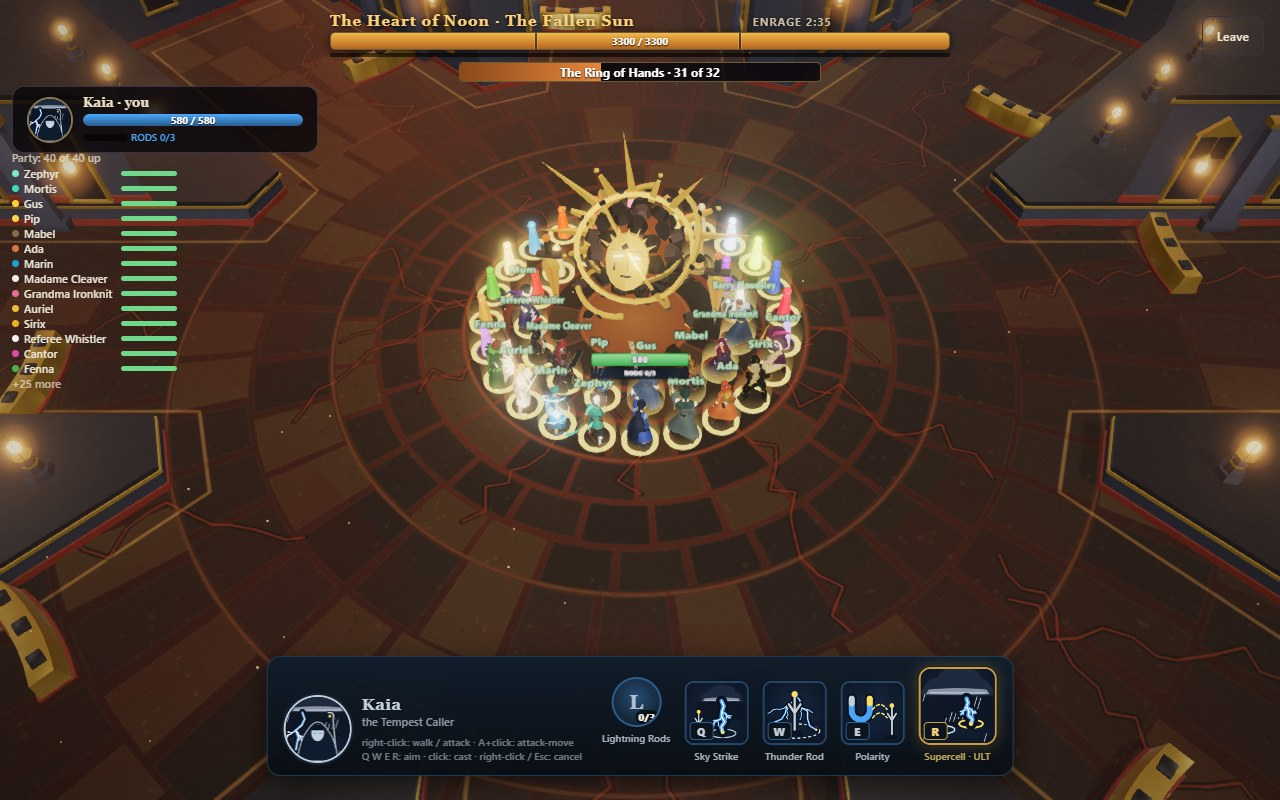
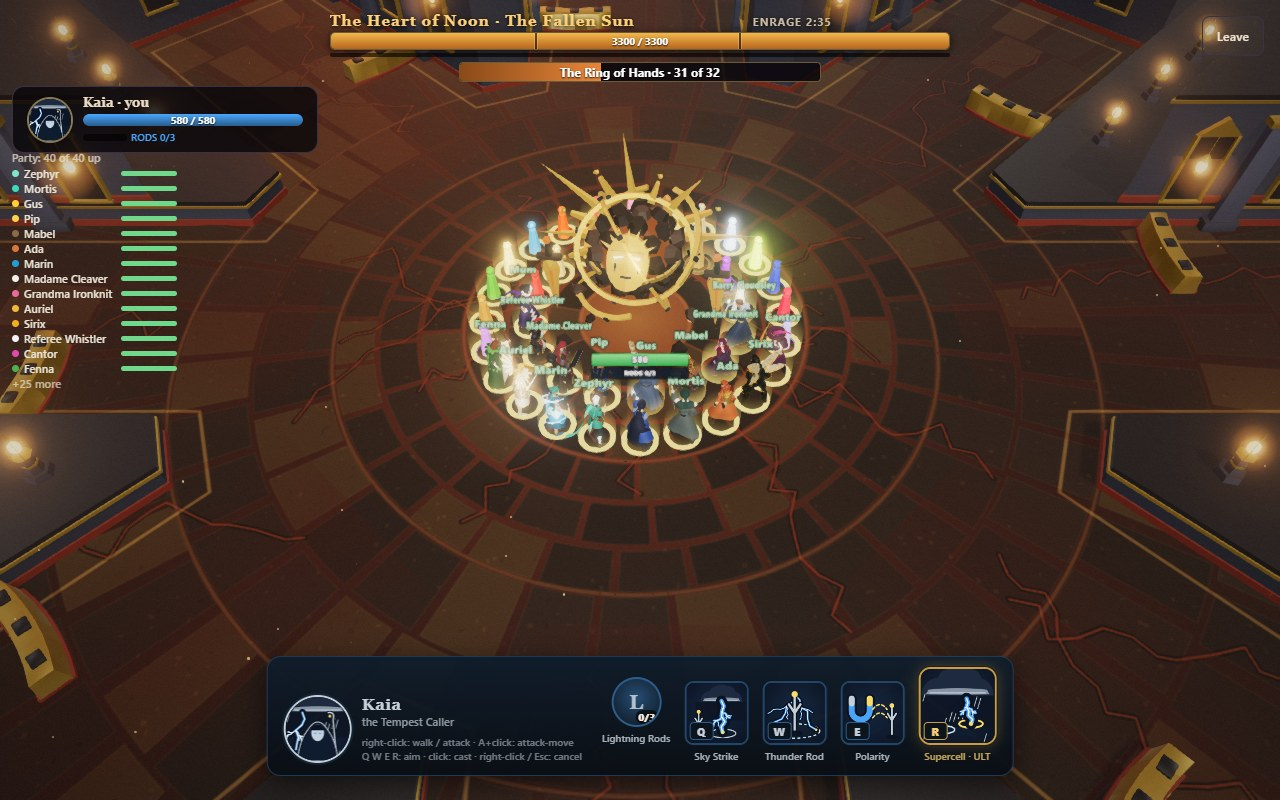
Raid: the Heart's crust falls by its own clock, through Take the Blade; one gold spot to a hero while the hub answers
- The crust was the last phase's opener, and an opener waits for a move that
  holds the floor: with Take the Blade in the air (30 s of every 44) it often
  never came, and a brain that took the fight over would never have cast it.
  It now comes as the floor's turning does, as soon as the phase lets it, and
  the blade lets it and the Heartbeat through.
- The Ring of Hands: two neighbours' reach overlaps, and through the hub the
  answer takes a moment, so one hero could ask for two spots. A screen that
  has asked for one asks for no other until it hears.

_raidHeart 246 rows.

diff --git a/src/raid/heart.ts b/src/raid/heart.ts
@@ -1168,10 +1168,12 @@ const floorTurns: BossMove = {
  * good (`heartbeat`, which carries the brain's pick). Its lock spots and its piece of cover go with it. What is gone burns whoever
  * steps on it, each second. The inner ring, a spoke of crust to each spur's nose (where the plates fall) and the north ray with the
  * way out never fall, and six sectors at most: a long fight ends on a floor too small. This cast only says that it has begun, stops
- * the rings (when, on the floor's own clock, is in its `x`) and keeps the fire over what has fallen; it opens the phase.
+ * the rings (when, on the floor's own clock, is in its `x`) and keeps the fire over what has fallen. It comes once, as soon as the
+ * phase lets it (`due`), as the floor's turning does: not as the phase's opener, which waits for a move that holds the floor
+ * (Take the Blade) and which a brain that takes the fight over never casts.
  */
 const crustFalls: BossMove = {
-  id: 'crust', name: 'The Crust Falls', charge: 4, lock: 0, cooldown: 99999, alongside: true, big: true, pose: 'raise',
+  id: 'crust', name: 'The Crust Falls', charge: 4, lock: 0, cooldown: 99999, due: 0, alongside: true, big: true, pose: 'raise',
   aim(c) {
     const a = atHeart(c);
     return { x: heartFight.turning && heartFight.stopAt === Infinity ? heartFight.clock + TURN.lead : 0, z: 0, dir: a.dir };
@@ -1225,8 +1227,11 @@ export const BLADE = {
   land: 1.6, out: 5.2, radius: 1.3, lies: 20, lasts: 30, burn: 12, might: 2, gens: 4, again: 3, stands: 1.5, over: 1.6,
   lances: [5, 8.5, 12, 15.5, 19, 22.5, 26], warn: 1.3, width: 2.4, hit: 0.35, block: 0.15, knock: 3, body: 1, past: 1.2,
 };
-/** While its blades are out of its hands it does what needs none. */
-const BLADE_ONLY = ['flare', 'corona', 'rings'];
+/**
+ * While its blades are out of its hands it does what needs none: the flare, the crown, the rings, and in the last phase the
+ * Heartbeat, whose raised plates stop a lance. The room's own changes come through it too.
+ */
+const BLADE_ONLY = ['flare', 'corona', 'rings', 'heartbeat', 'turn', 'crust'];
 const TAKE = 0, DROP = 100, SPENT = 200;
 
 /** One of its blades, away from its hand. */
@@ -1447,7 +1452,7 @@ function sunLance(c: BossCast, p: PlayContext): PlayedMove {
 /**
  * Take the Blade (user, 2026-11-12, for a party of 20 or more): the Heart throws its two sun blades down into the floor beside it.
  * A hero who walks onto one carries it over its head: its hits on the Heart count twice, it walks slower, and the Heart's aim goes
- * to the carriers (`heartChoice`). While the blades are out of its hands it does only what needs none, and it throws a lance of
+ * to the carriers (`heartChoice`). While the blades are out of its hands it does only what needs none (`BLADE_ONLY`), and it throws a lance of
  * light at a carrier every few seconds: the lance ends on the first hero standing in its line (who pays little) or on cover, a
  * raised plate too; a carrier it reaches pays much and the blade is knocked from its hands. A blade whose carrier is hit or falls
  * lies where that hero stood, for another. Hold Still goes on through all of it: on a beat a carrier can't step aside.
@@ -1534,7 +1539,10 @@ const ringOfHands: BossMove = {
     });
     let mine = -1, got = 0, won = -1, named = false, time = 0;
     const fail: Threat = { shape: { kind: 'circle', x: C.x, z: C.z, radius: roomR() + 1 }, at, show: Math.max(0, at - 3), share: HANDS.fail, look: 2 };
-    const objectives: Objective[] = spots.map((s, i) => ({ part: i, x: s.x, z: s.z, radius: HANDS.reach, hold: HANDS.hold, until: close, can: () => mine < 0 && s.by < 0 && won < 0 }));
+    // One spot to a hero. Two neighbours' reach overlaps, and the hub's answer takes a moment: while this screen has asked for a spot
+    // and not heard, it asks for no other.
+    const asked = () => objectives.some((o) => o.reported && !o.done);
+    const objectives: Objective[] = spots.map((s, i) => ({ part: i, x: s.x, z: s.z, radius: HANDS.reach, hold: HANDS.hold, until: close, can: () => mine < 0 && s.by < 0 && won < 0 && !asked() }));
     const label = () => p.label(`The Ring of Hands · ${got} of ${need}`);
     p.hint('The Ring of Hands: everyone to a gold spot round the Heart, one each. Hold it a moment');
     p.banner('The Ring of Hands', 2.6);
@@ -1637,9 +1645,9 @@ const PHASES: BossPhase[] = [
 ];
 /**
  * A party's, in the Sunburst. The Rings Turn still opens with the rings, and the floor begins to turn right after (`turn` comes as
- * soon as it may). Noon Falls opens with the crust falling, which stops the rings; the Heartbeat waits until they rest (so its
- * plates fall before the spurs, on a floor that stands) and then comes by its own clock: its first beat already takes a sector. Its
- * great mechanics (Take the Blade, The Ring of Hands) are in its lists only when their turn has come
+ * soon as it may). Noon Falls begins with the crust falling (`crust`, the same way: first in its list, by its clock), which
+ * stops the rings; the Heartbeat waits until they rest (so its plates fall before the spurs, on a floor that stands) and then comes
+ * by its own clock: its first beat already takes a sector. Its great mechanics (Take the Blade, The Ring of Hands) are in its lists only when their turn has come
  * (`nextGreat`); the brain leaves out what the band is too small for (`BossMove.minBand`).
  */
 const great = (list: string[]) => {
@@ -1649,7 +1657,7 @@ const great = (list: string[]) => {
 const PARTY_PHASES: BossPhase[] = [
   PHASES[0],
   { ...PHASES[1], get moves() { return great(['sweep', 'fall', 'flare', 'rings', 'turn']); } },
-  { ...PHASES[2], opener: 'crust', get moves() { return great(floorMoves() ? ['sweep', 'fall', 'flare', 'rings', 'corona'] : ['sweep', 'fall', 'flare', 'rings', 'corona', 'heartbeat']); } },
+  { ...PHASES[2], opener: undefined, get moves() { return great(floorMoves() ? ['crust', 'sweep', 'fall', 'flare', 'rings', 'corona'] : ['crust', 'sweep', 'fall', 'flare', 'rings', 'corona', 'heartbeat']); } },
 ];
 
 export const HEART_OF_NOON: BossDef = {

diff --git a/pipeline/tools/raid-check.js b/pipeline/tools/raid-check.js
@@ -2118,7 +2118,7 @@
       step(12);
       yes('band: then The Ring of Hands has its turn', d.boss.brain.listOf(true).includes('hands') && !d.boss.brain.listOf(true).includes('blade'));
       yes('party phases: The Rings Turn opens with the rings, and the floor turns as soon as it may', def.phases[1].opener === 'rings' && def.phases[1].moves.includes('turn') && def.moves.turn.due === 0);
-      yes('party phases: Noon Falls opens with the crust falling, the Heartbeat next', def.phases[2].opener === 'crust' && def.phases[2].moves.includes('heartbeat'));
+      yes('party phases: Noon Falls begins with the crust falling, by its own clock, the Heartbeat next', !def.phases[2].opener && def.phases[2].moves[0] === 'crust' && def.moves.crust.due === 0 && def.phases[2].moves.includes('heartbeat'));
       yes('party phases: every move\'s name passes the hub (letters only)', Object.keys(def.moves).every((id) => /^[a-z]{1,16}$/.test(id)));
 
       // The floor turns: three rings, the inner one stands, the middle and the outer one turn against each other and carry.
@@ -2349,7 +2349,8 @@
       yes('blade: with no carrier standing the lance does not come', lanceAim([{ side: 0, x: 0, z: 20 }]).flag === true);
       step(BLADE.lasts - since(bc.id) + 2);
       yes('blade: at the end the blades are back in its hands', HEART_LIVE.blades.every((k) => k.out === 0) && !live(bc.id));
-      yes('blade: while they are out it does only what needs no blade', ['sweep', 'fall', 'heartbeat'].every((m) => !def.moves.blade.holds.only.includes(m)));
+      yes('blade: while they are out it does only what needs no blade', ['sweep', 'fall'].every((m) => !def.moves.blade.holds.only.includes(m)));
+      yes('blade: the crust still falls and the heart still beats meanwhile', ['crust', 'turn', 'heartbeat'].every((m) => def.moves.blade.holds.only.includes(m)));
       // The lance stops at cover, and costs who stands in its way less.
       party(20);
       q0 = burstAt(2, 27, 3.4);
@@ -2399,6 +2400,20 @@
       hc = cast('hands', { x: 40, z: 0 });
       step(0.05);
       hp = live(hc.id).played;
+      {
+        // Through the hub the answer takes a moment. A hero midway between two neighbours, in reach of both, asks for one only.
+        const asks = [], objective0 = d.boss.link.objective;
+        d.boss.link.objective = (id, part) => { asks.push(part); };
+        const pair = hp.objectives.slice(0, 2);
+        yes('hands: the reach of two neighbours overlaps', Math.hypot(pair[0].x - pair[1].x, pair[0].z - pair[1].z) < 2 * HANDS.reach);
+        place((pair[0].x + pair[1].x) / 2, (pair[0].z + pair[1].z) / 2);
+        step(HANDS.hold + 0.4);
+        d.boss.link.objective = objective0;
+        check('hands: a hero in reach of two spots asks the hub for one, while its answer is on the way', asks.length, 1, 0);
+        d.boss.script.done(hc.id, asks[0], 0);
+        step(0.3);
+        yes('hands: and none once it has one', asks.length === 1 && hp.objectives.every((o) => !o.can()));
+      }
       yes('hands: forty spots for forty, two rings deep, none overlapping', hp.objectives.length === 40 && nearest(hp.objectives) >= 2 * HANDS.radius && hp.objectives.every((o) => radOf(o.x, o.z) + HANDS.radius < BURST_RINGS.inner));
       yes('hands: it does nothing else meanwhile', def.moves.hands.holds.only.length === 0);
 

diff --git a/docs/architecture/raid.md b/docs/architecture/raid.md
@@ -690,7 +690,7 @@ Heart, has none of it.
 | When | What | How it comes |
 |---|---|---|
 | The Rings Turn begins (66 %) | **The floor turns.** The well is three rings | `turn`, once, as soon as the phase lets it (`due: 0`), right after the rings' own cast |
-| Noon Falls begins (33 %) | **The crust falls.** The rings stop; from then on each Heartbeat takes a sector of the floor | `crust`, the phase's opener; the Heartbeat follows by its own clock once the rings rest |
+| Noon Falls begins (33 %) | **The crust falls.** The rings stop; from then on each Heartbeat takes a sector of the floor | `crust`, once, as soon as the phase lets it (`due: 0`, first in its list); the Heartbeat follows by its own clock once the rings rest |
 | A fight tuned for 10 or more | **Shade the Heart together** | The Heartbeat itself, for such a party |
 | 20 or more | **Take the Blade** | `blade`, in the second and the last phase, when its turn comes |
 | 40 | **The Ring of Hands** | `hands`, the same, taking turns with the blade |
@@ -721,7 +721,10 @@ for 40 the blade, then the ring. The first waits 9 s after the floor begins to t
   the cast took to reach them by the computer's. Each screen carries its own hero by what its ring turned that frame; nobody is
   carried over a gap of more than half a second (a tab that was hidden).
 - **It comes once.** A brain that takes the fight over starts with all its moves ready and casts `turn` again: the cast does nothing
-  when the floor already turns. The same for `crust`.
+  when the floor already turns. The same for `crust`. Neither is its phase's opener: an opener waits for a move that holds the
+  floor (Take the Blade holds it 30 s of every 44, and its doubled damage is just when a phase turns), and a brain that takes
+  over never casts one. Both are among the moves the blade lets through (`BLADE_ONLY`). With `crust` as the opener, a lone hero at
+  band 20 saw the crust begin in 12 of 19 fights that reached the last phase; now in 16 of 16.
 - **Stopping.** When the crust falls the rings stop. The brain names when, on the floor's own clock, 1.5 s ahead (the cast's `x`),
   so every screen begins to brake at the same angle whenever it hears. Each ring rests on the next eighth of a turn, so its drawing
   lines up with the rays again, in 3 to 8 s.
@@ -765,9 +768,9 @@ says "Heartbeat · Shade the Heart together". A party of three to five has its o
 | The call | The Heart throws its two blades down: they stand in the floor 5.2 m from it, across from each other, after 1.6 s. The cast bar stays up for all of it, 30 s: "Take the Blade · 2 carried" |
 | Taking one | Walk onto it. It is held aloft over the carrier, a sun at its point |
 | A carrier | Its hits on the Heart count twice; it walks at 85 %; the Heart's aim goes to the carriers (`heartChoice`, `BossDef.choose`) |
-| Meanwhile | The Heart does only what needs no blade: the flare, the crown, the rings. No Heartbeat |
+| Meanwhile | The Heart does only what needs no blade: the flare, the crown, the rings, and in the last phase the Heartbeat. No Blade Sweep, no Blade Fall |
 | The lance | Every 3.5 s from 5 s on (seven in all) it throws a lance of light at a carrier: 1.3 s of warning, 2.4 m wide. A carrier it reaches pays 35 %, is thrown back 3 m, and the blade is knocked from its hands |
-| Shielding | The lance ends on the first hero standing in its line (within 1 m of it, the brain's look), who pays 15 %; or on cover, a raised plate too |
+| Shielding | The lance ends on the first hero standing in its line (within 1 m of it, the brain's look), who pays 15 %; or on cover: a piece of the fallen armillary, or a plate raised for a Heartbeat that came meanwhile |
 | A blade dropped | Lies where the lance was aimed, or where its carrier fell, for another. Who dropped it can't take it again for 3 s |
 | How long | A blade can be carried 12 s in all, by one hero or several; nobody took it for 20 s, and it goes back. Four changes of hands at most |
 
@@ -786,7 +789,7 @@ says "Heartbeat · Shade the Heart together". A party of three to five has its o
 | | |
 |---|---|
 | The spots | One gold spot for every hero standing (the brain's count), 0.7 m wide, on the inner ring: up to 22 in a ring 6 m from the Heart, a bigger raid two rings deep (6 m and 4.2 m) |
-| Taking one | Hold it 1 s, from within 0.95 m of its middle (a little past its edge, where a tap or an AI's walk ends). One to a hero: the hub says who has which |
+| Taking one | Hold it 1 s, from within 0.95 m of its middle (a little past its edge, where a tap or an AI's walk ends). One to a hero: the hub says who has which, and a screen that has asked for a spot asks for no other until it hears (two neighbours' reach overlaps) |
 | The count | On the cast bar: "The Ring of Hands · 31 of 32" (held, of those needed: four in five) |
 | How long | 16 s (never under 14); the spots close 1.2 s before the end, so every screen has the same count |
 | Full | The moment enough are held: the Heart is stunned, it kneels (`RAID_REWARDS.heart.hands`), nothing burns |
@@ -805,7 +808,7 @@ move's name is letters (`MOVE_RE` in `server/hub.mjs`), so online only the brain
 player was never burnt for walking in the Heart's second and last phase. They are `stillb` and `stillc` now, and six screens all
 saw them.
 
-**Not there.** A carrier is not slowed much: the one slow the raid's files have is a shard's (85 %, and nothing with Sure Feet). A
+**Not there.** A hero that falls on a sector which then drops lies over the sun: whoever gets it up stands in the fire to do it. A carrier is not slowed much: the one slow the raid's files have is a shard's (85 %, and nothing with Sure Feet). A
 dropped blade's place is exact when a lance knocked it loose, and as near as a fallen hero's place is on each screen otherwise. A
 hero that falls on a ring is not carried while it lies there. `PROTOCOL` must be raised before a deploy: the room's rules changed.
 
@@ -1034,7 +1037,7 @@ it, casting does), and it gets up with half its HP. Twice a fight per hero. Both
 - `pipeline/tools/heart-room-shots.py`: the Sunburst's pictures the same way, with 39 partners placed about the room by hand
   (`docs/raid/heartroom-*.jpg`). `pipeline/tools/heart-phase-shots.py`: the turning floor, the falling crust, Take the Blade and The
   Ring of Hands, on the same page set-up (`docs/raid/heart-*.jpg`).
-- `_raidHeart()` also has the party's new rows (114 of its 242): which band sees which mechanic and their turns; the rings' angles
+- `_raidHeart()` also has the party's new rows (118 of its 246): which band sees which mechanic and their turns; the rings' angles
   by the rule, the carry on each ring and off them, Hold Still on a turning ring, the beams against the floor, the cast doing
   nothing a second time; the rings stopping on an eighth of a turn when the brain says; a sector named by the brain, glowing,
   gone, what it costs, what stays, the lock rows; the plates by the heroes standing and what a plate left lying costs; the blades

diff --git a/pipeline/designs/raid-party.md b/pipeline/designs/raid-party.md
@@ -417,9 +417,14 @@ blades). Pictures: `docs/raid/heart-*.jpg` (thirteen; `python pipeline/tools/hea
 - **Shade the Heart together: a plate left lying costs everyone 8 %,** sheltered or not, 32 % at most. That is the "failure costs
   the whole party" for a mechanic whose other cost falls only on whoever stood in the open. The plates are one for every five
   heroes standing, so a raid that has lost ten heroes has two plates fewer to raise.
-- **Take the Blade: the blades are out of its hands, so it does nothing that needs them.** No Blade Sweep, no Blade Fall and no
-  Heartbeat for 30 s. In their place it throws a lance of light at a carrier every 3.5 s, and that is what the party shields:
-  the first hero in the lance's line takes it, for 15 % instead of the carrier's 35 %.
+- **Take the Blade: the blades are out of its hands, so it does nothing that needs them.** No Blade Sweep and no Blade Fall for
+  30 s. In their place it throws a lance of light at a carrier every 3.5 s, and that is what the party shields: the first hero in
+  the lance's line takes it, for 15 % instead of the carrier's 35 %. In the last phase the Heartbeat goes on through it: the two
+  overlap, as the rules for these mechanics allow there, and a plate raised for the beat stops a lance.
+- **The room's changes are not their phase's opener.** The first build opened Noon Falls with the crust. An opener waits for a
+  move that holds the floor, and the blade holds it 30 s of every 44, just when its doubled damage turns the phase: at band 20
+  the crust began in 12 of 19 fights that reached the last phase, and a brain that took the fight over would never have cast it.
+  Now it comes by its own clock, as the floor's turning does, and through the blade: 16 of 16.
 - **A lance that reaches a carrier knocks the blade loose.** Without that, standing in the lance would only save a friend some HP.
   The blade lies where the lance was aimed (a spot every screen has from the cast), so nobody sees it somewhere else.
 - **A blade burns 12 s in all,** shared by whoever carries it, and changes hands four times at most.
@@ -442,13 +447,14 @@ left lying 8 %; a blade doubles hits for 12 s, a lance every 3.5 s for 35 % or 1
   |---|---|---|---|---|---|---|---|
 | 5 | 4 of 20 | 112 | 15 of 20 | 20 of 20 | 21 | 0.3 | 0 |
   | 10 | 6 of 20 | 121 | 15 of 20 | 20 of 20 | 18.2 | 0.5 | 0.06 |
-  | 20 | 10 of 20 | 115 | 19 of 20 | 20 of 20 | 17.4 | 0.1 | 0 |
-  | 40 | 6 of 20 | 112 | 18 of 20 | 20 of 20 | 16.8 | 0.2 | 0 |
+  | 20 | 6 of 20 | 112 | 16 of 20 | 20 of 20 | 17.9 | 0.3 | 0.04 |
+  | 40 | 9 of 20 | 109 | 17 of 20 | 20 of 20 | 14.6 | 0.3 | 0 |
 
-  At 20 the lone hero wins more because it takes a blade and hits twice as hard for 12 s of every 44. At 40 its ring is one spot
-  of one: a second run of the same 20 fights cleared 9. The first build of the ring cleared 6 and broke 7 rings of 9, because the
-  autopilot stops walking 0.7 to 0.8 m from where it is going and a spot was 0.7 m wide: a hero now holds a spot from 0.95 m of
-  its middle (a tap ends short of its mark as well), and the ring broke 1 time in 8 and 3 in 9.
+  The rows for 20 and 40 are the last build's (the crust by its own clock, the Heartbeat through the blade). Before that, with
+  the crust often never starting, band 20 cleared 10 of 20: a lone hero with a blade hits twice as hard and met no falling floor.
+  At 40 its ring is one spot of one. The first build of the ring broke 7 rings of 9, because the autopilot stops walking 0.7 to
+  0.8 m from where it is going and a spot was 0.7 m wide: a hero now holds a spot from 0.95 m of its middle (a tap ends short of
+  its mark as well), and in the last run no ring of 7 broke. Runs of 20 swing: band 40 gave 6, 9, 6 and 9 clears.
 - **Band 10, 40 fights** (the same ten x 4, to set against the Sunburst before: 14 of 40, 119 s): 9 of 40, 119 s. The beams hit it
   165 times (151 before), the flare 40 (57); the Heartbeat killed 11 (8 before), the beams 10 (10). 31 of 40 reached the last phase.
   It leaves a sector that glows: 0 s over the sun. So the floor's changes cost the autopilot about a third of its wins, as far as
@@ -462,7 +468,7 @@ left lying 8 %; a blade doubles hits for 12 s, a lance every 3.5 s for 35 % or 1
 - **The floors' clocks.** In the first run the six floors were 2.1 s apart (3.5 m on the outer ring): the game's own time, which a
   cast's clock counts in, falls behind on a screen that draws slowly, and six pages on one computer draw slowly. The floor now
   counts by the computer's clock from the moment its cast came. Second run: 0.2 s apart at the median, 0.4 s at most.
-- `_raidHeart()`: 242 rows (the 128 as they were but three, below; 114 new). `_raidCheck()` 234, `_raidAsh()` 77, `_raidTwin()` 72,
+- `_raidHeart()`: 246 rows (the 128 as they were but three, below; 118 new). `_raidCheck()` 234, `_raidAsh()` 77, `_raidTwin()` 72,
   `_raidUpgrades()` 40. Type check, build, `npm run test:server`.
 - **Two things seen in the tools, neither from this work.** `_raidCheck()` run in the same page after `_raidHeart()` fails one row
   ("sunfire: the autopilot keeps out of it as it grows"); alone, or after `_raidAsh()`, it passes. It does the same on the commit
@@ -475,8 +481,8 @@ left lying 8 %; a blade doubles hits for 12 s, a lance every 3.5 s for 35 % or 1
 - **"Its plates with it".** A plate's place never falls (above).
 - **"Walks slowly".** A carrier walks at 85 %, and at full speed with Sure Feet: the only slow the raid's files can lay on this
   screen's hero is a sun shard's (`BossWorld.heavy`). Needs `src/duel.ts` (below).
-- **"Raise plates" against the lance.** A raised plate stops a lance, but there is none while the blades are out: the Heartbeat
-  waits. The fallen armillary's pieces stop it too.
+- **"Raise plates" against the lance** is so only in the last phase, where a Heartbeat comes while the blades are out. In the
+  second phase there are no plates; the fallen armillary's pieces stop a lance in both.
 - **Three of the 128 old rows were changed,** not only added to: at 10 or more a plate left lying now costs everyone, so the row
   that stands behind one raised plate of two has the second raised by a partner, and the two rows that stand in the open with both
   left lying expect 56 % instead of 40 %.
@@ -497,6 +503,7 @@ left lying 8 %; a blade doubles hits for 12 s, a lance every 3.5 s for 35 % or 1
   are checked on one screen, with the hub's answers fed in by hand.
 - A person playing any of it. A real phone (two pictures at 390 x 844 only).
 - More than six screens. A player leaving while carrying a blade (the blade goes back when its 30 s end).
+- A hero that falls on a sector which then drops lies over the sun: getting it up costs whoever does it 25 % a second.
 - Tiers above 1. At tier 4 and up the Heartbeat comes in the second phase, on the turning floor, with its plates on the inner
   ring: built and checked by a row, not played.
 - The numbers are first values.

diff --git a/docs/STATUS.md b/docs/STATUS.md
@@ -40,9 +40,9 @@ Code: `src/raid/heart.ts`, `src/arenas/sunburst.ts`, `src/raid/bodies/heart.ts`;
 - **A bug found and fixed on the way.** Online, Hold Still's beats in the Heart's second and last phase reached only the screen
   that ran the boss: every other player could walk through them. (The hub drops a cast whose move's name is not letters; they
   were `still2` and `still3`.) It was so in the room for two as well. The Heart is not live yet, so no player met it.
-- **Checked.** Type check, build, `npm run test:server`. `_raidHeart()` 242 rows (114 new; 3 of the old 128 changed, said in
+- **Checked.** Type check, build, `npm run test:server`. `_raidHeart()` 246 rows (118 new; 3 of the old 128 changed, said in
   raid-party.md), `_raidCheck()` 234, `_raidAsh()` 77, `_raidTwin()` 72, `_raidUpgrades()` 40. The autopilot at the four sizes, 80
-  fights, no errors and none that never ends (4, 6, 10 and 6 clears of 20); at band 10 over 40 fights 9 clears against 14 before.
+  fights, no errors and none that never ends (4, 6, 6 and 9 clears of 20); at band 10 over 40 fights 9 clears against 14 before.
   Six bots through the real hub, twice: the floor turned the same way on all six screens, the rings rested at the same angles,
   six sectors fell on six of six screens within 0.34 s, every screen saw the same casts, no errors.
 - **Not checked.** A person playing. Take the Blade and The Ring of Hands through the real hub (six bots are a fight tuned for

diff --git a/pipeline/designs/raid-heart.md b/pipeline/designs/raid-heart.md
@@ -209,7 +209,7 @@ big party").
 | The blades away from its hands | `HEART_LIVE.blades` in `src/raid/bodies/heart.ts` |
 | A party's phases | `PARTY_PHASES`; `HEART_OF_NOON.band`, `choose` |
 | What the script gained | `PlayContext.carry`, `down`, `might`, `banner`; `RunUpgrades.might`; `RAID_REWARDS.heart.hands` |
-| Its check | `_raidHeart()`: 114 more rows, 242 in all |
+| Its check | `_raidHeart()`: 118 more rows, 246 in all |
 | Its pictures | `python pipeline/tools/heart-phase-shots.py docs/raid` -> `docs/raid/heart-*.jpg` |
 | Its measurements | `pipeline/tools/heart-party-run.js` (the autopilot by band), `pipeline/tools/party-raid.py --boss heart --burst` (six screens through the hub) |
 
